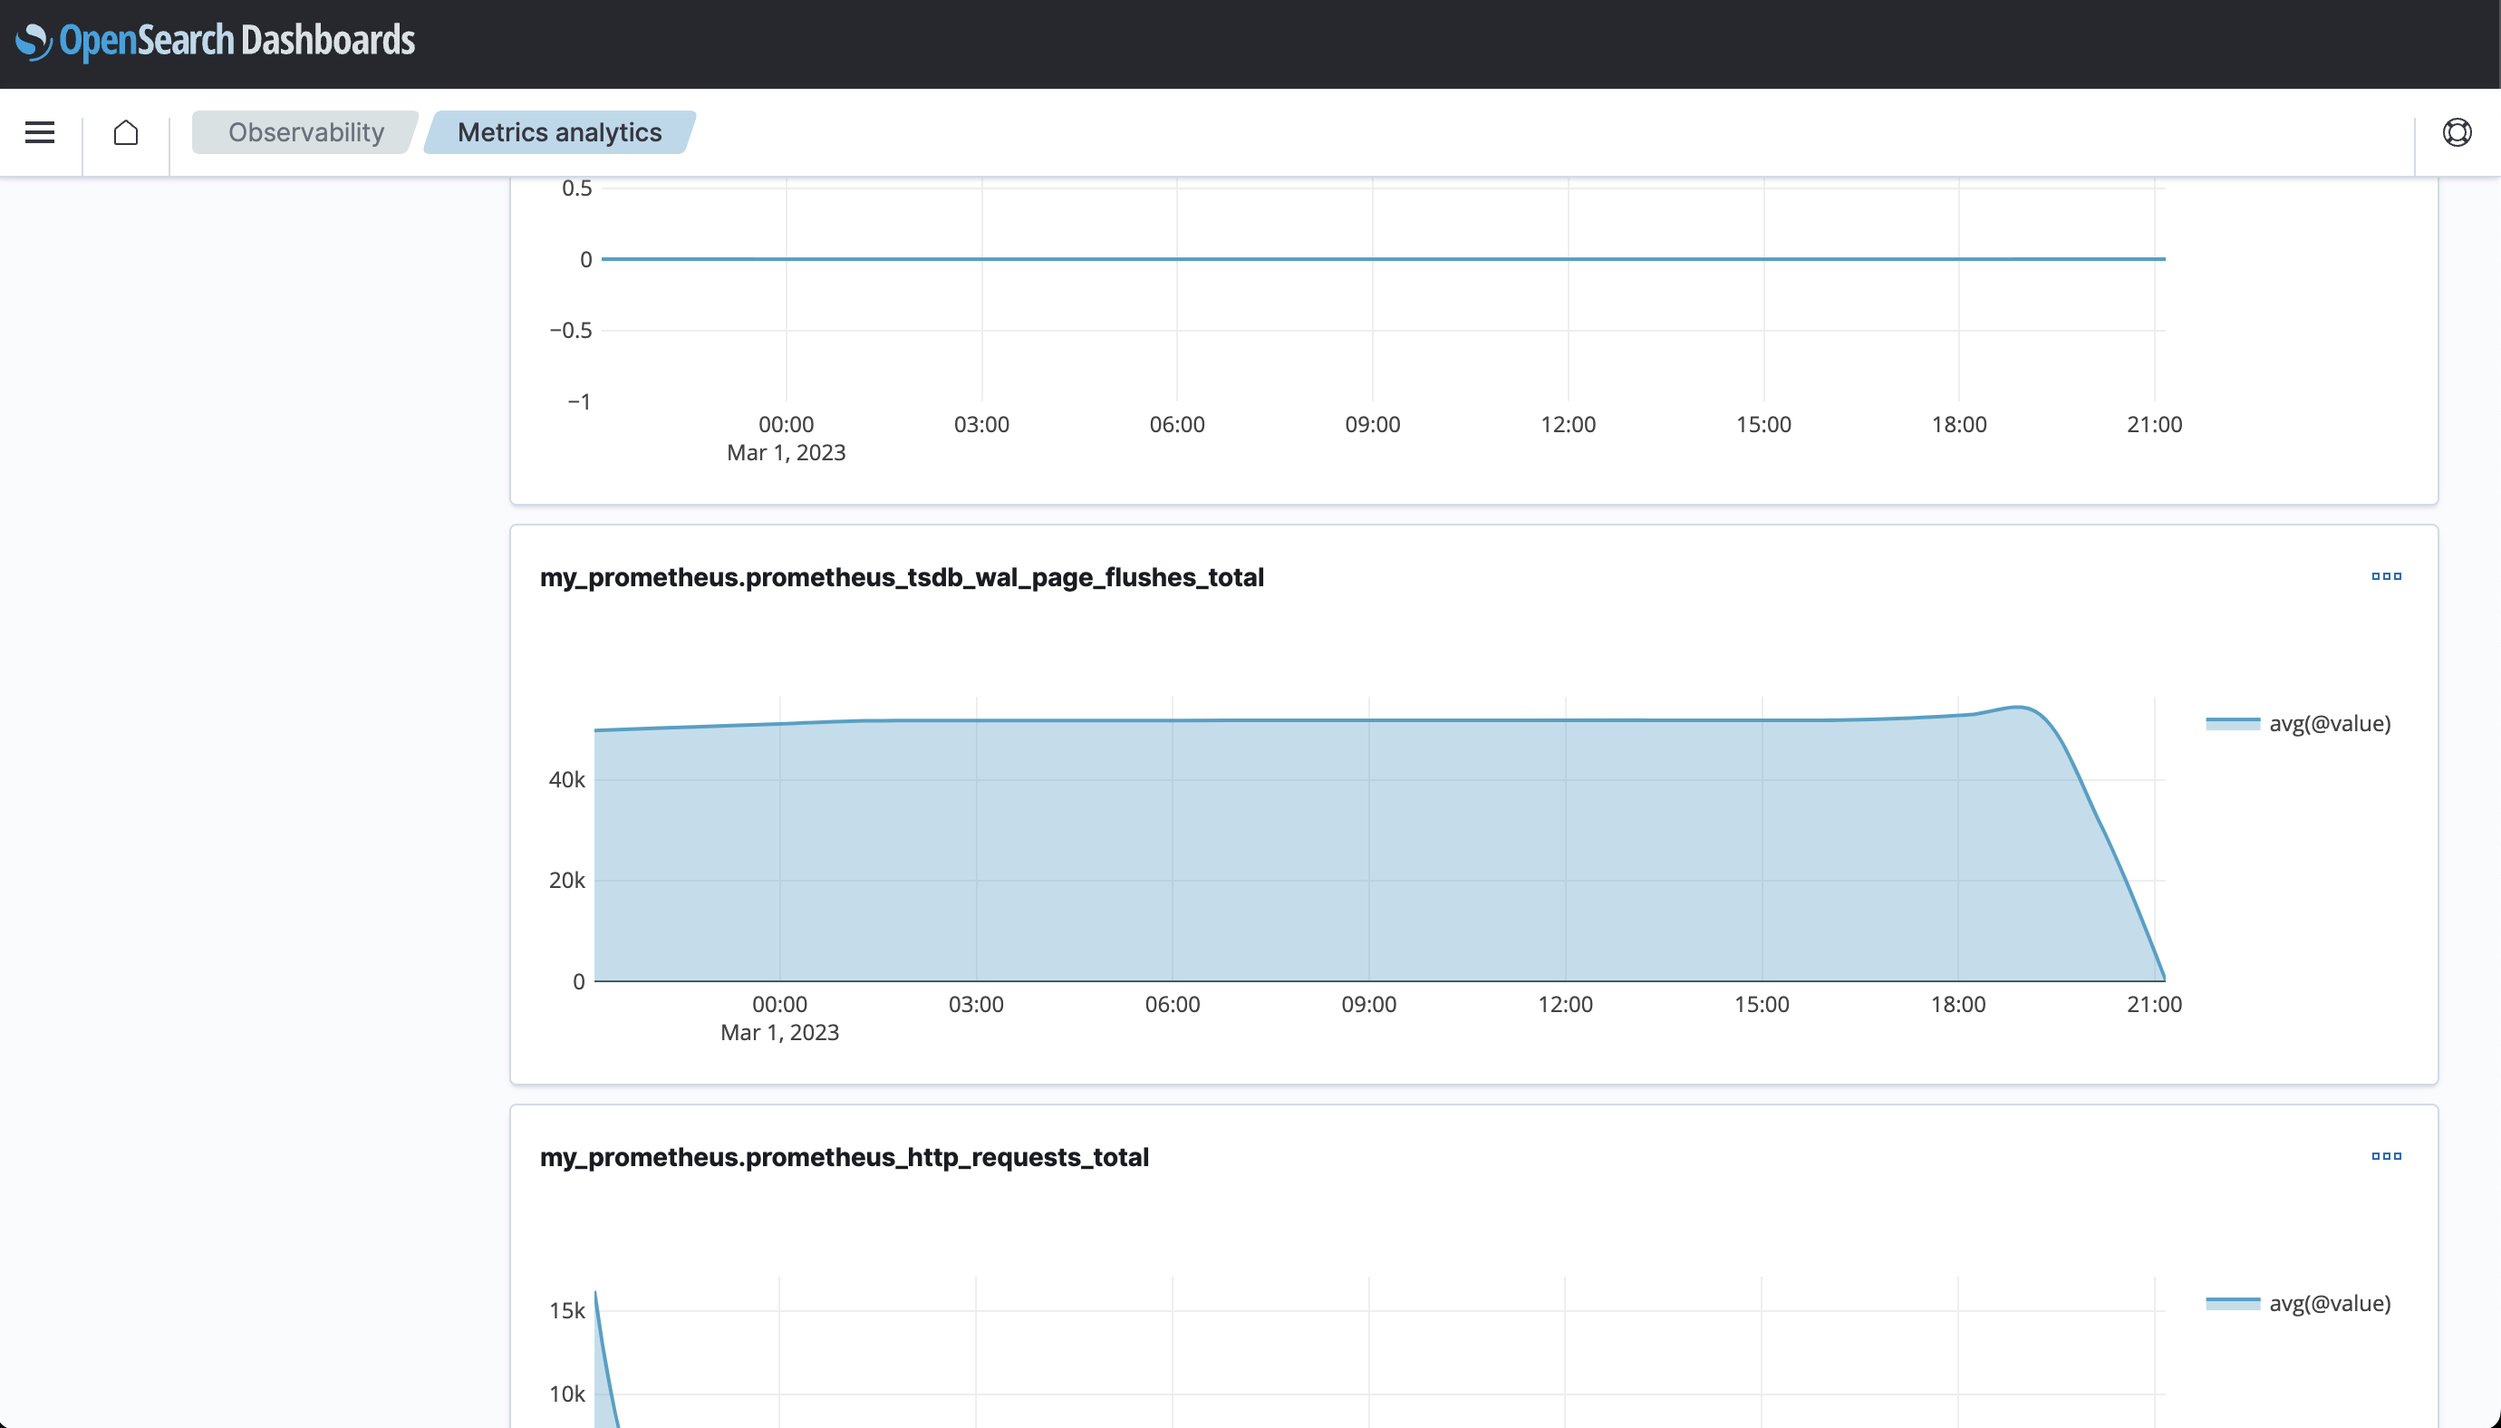
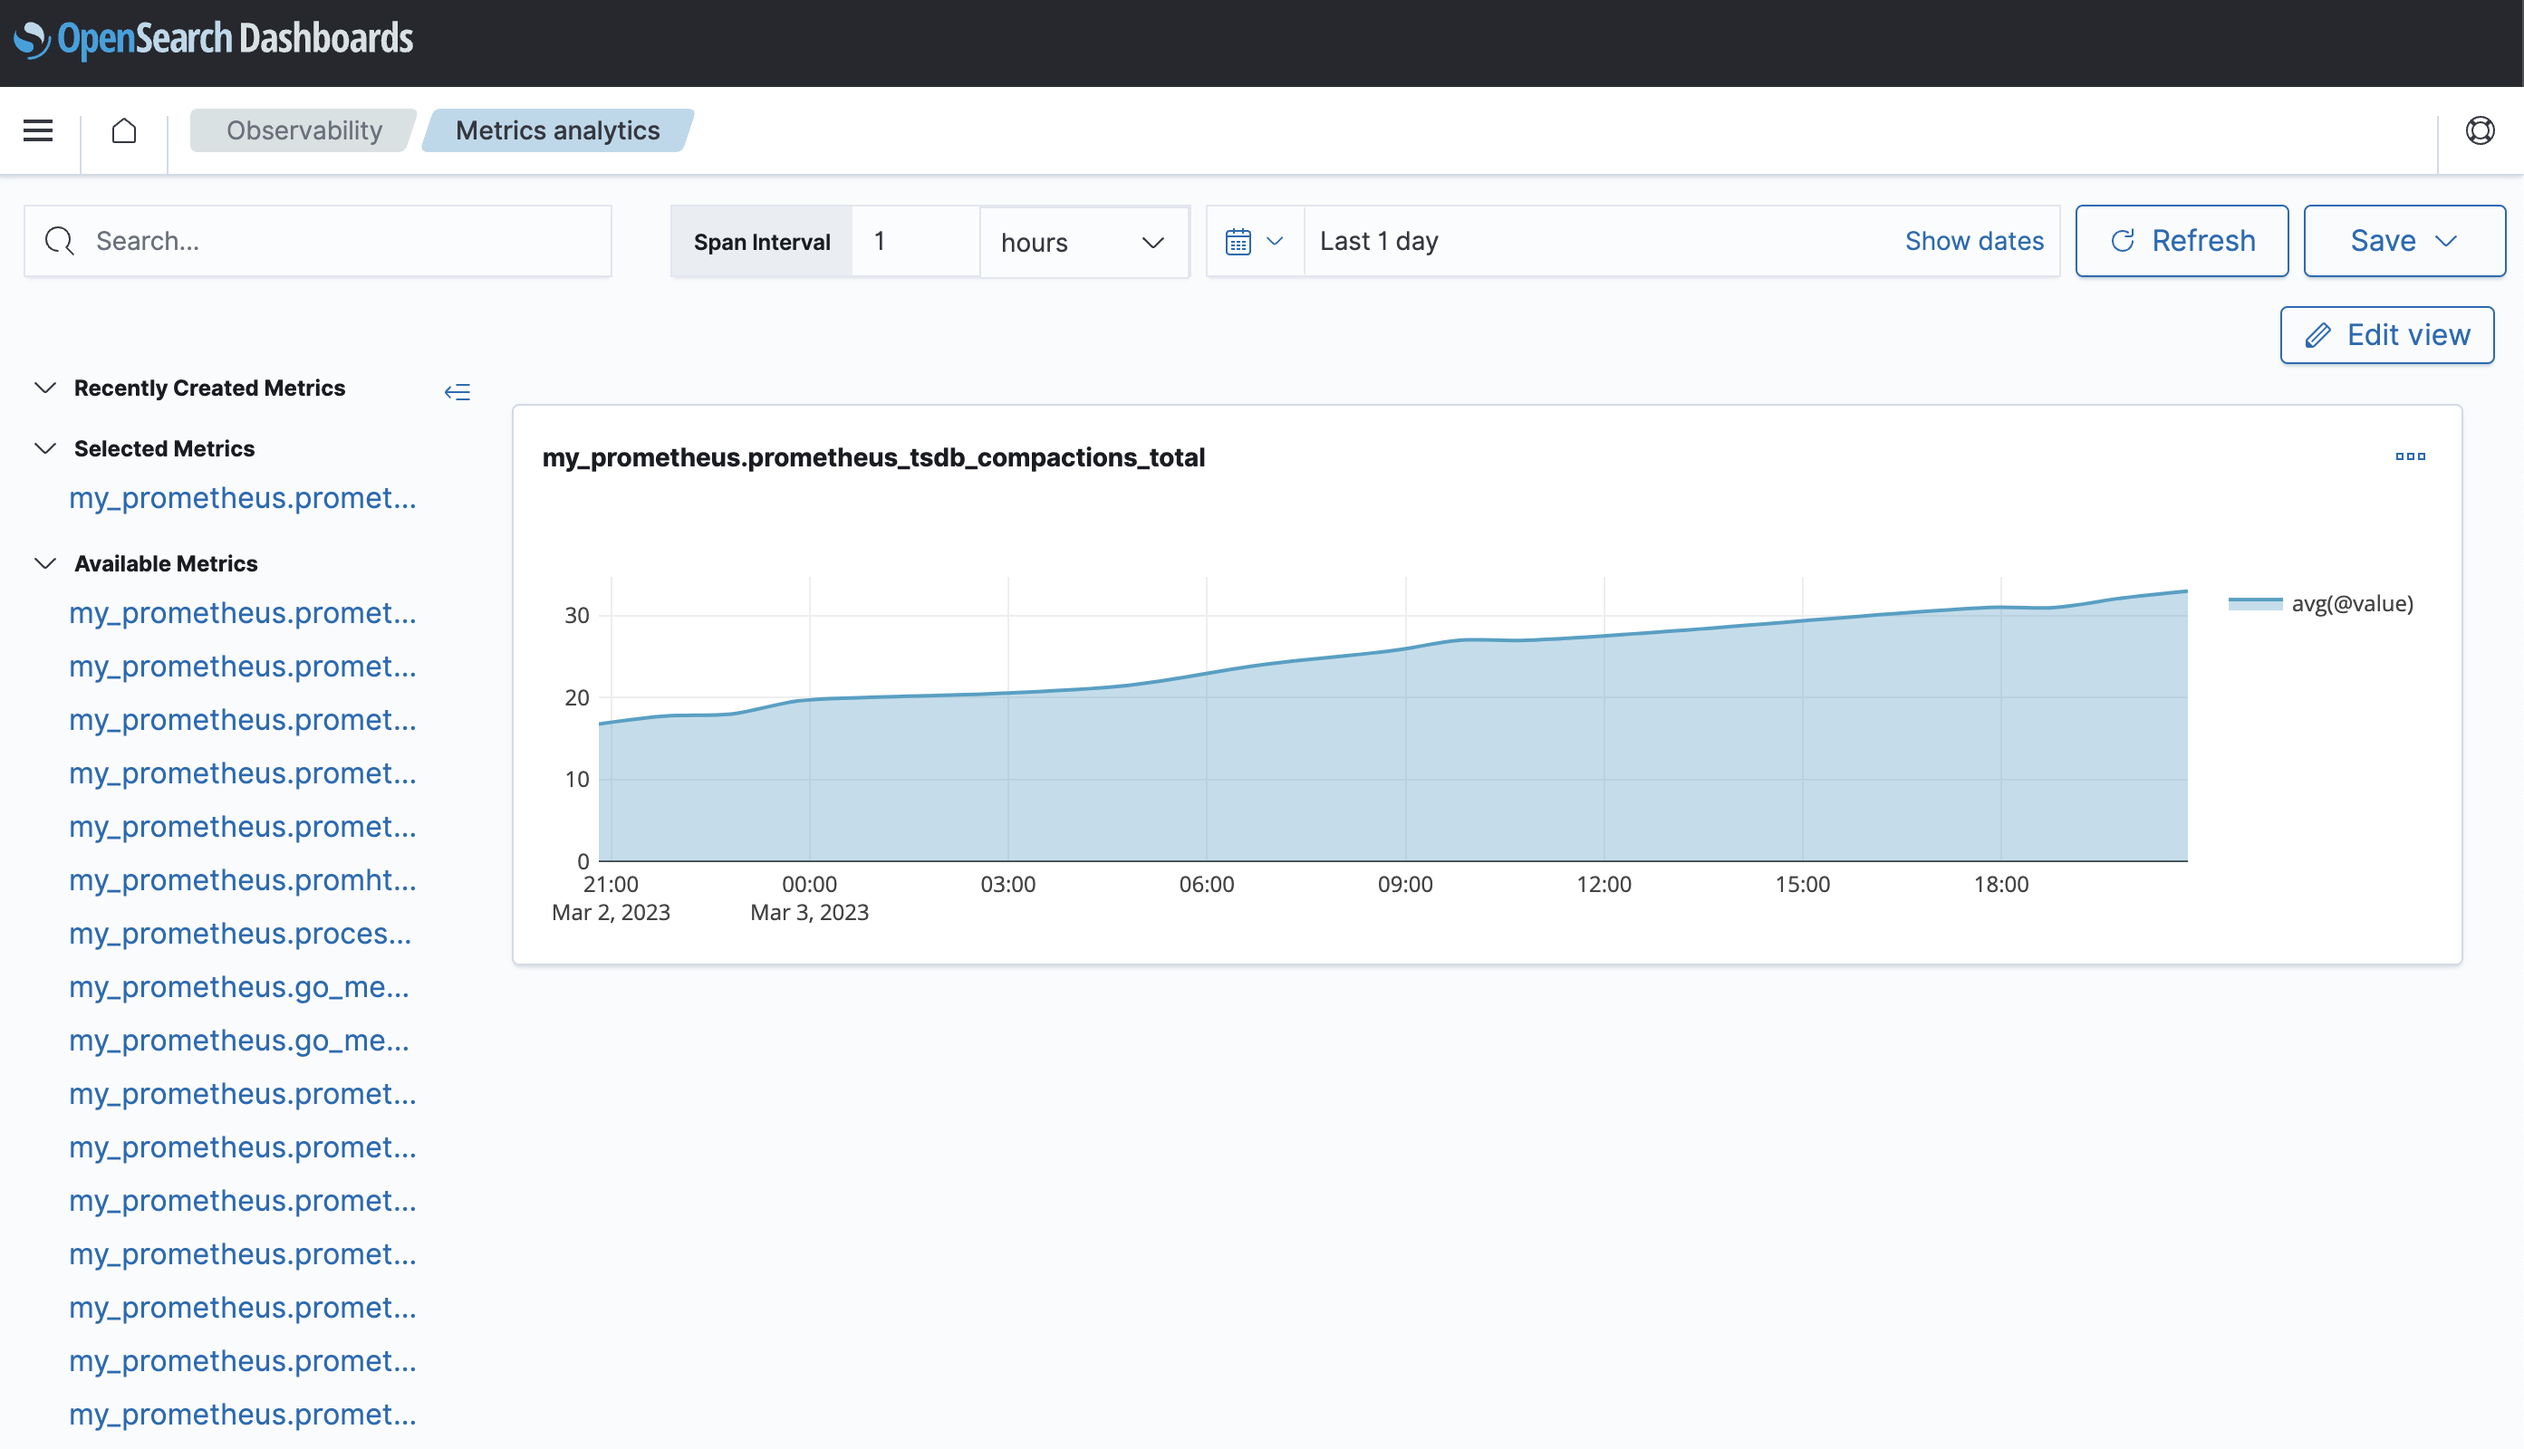
Additional changed for clarity

diff --git a/_observing-your-data/prometheusmetrics.md b/_observing-your-data/prometheusmetrics.md
@@ -12,7 +12,7 @@ Introduced 2.4
 
 Starting with OpenSearch 2.4, you can ingest and visualize metrics data from the open-source [Prometheus](https://prometheus.io/) monitoring solution and from log data aggregated within OpenSearch, allowing you to analyze and correlate data across logs, traces, and metrics. Previously, you could ingest and visualize only logs and traces from your monitored environments. With this feature, you can observe your digital assets with more granularity, gain deeper insight into the health of your infrastructure, and better inform your root cause analysis.
 
-The following image shows the process of pulling in metrics and viewing them in **Observability**.
+The following image shows the process of pulling in metrics ingested through Prometheus and visualizing them in a dashboard.
 
 ![Prometheus and Metrics]({{site.url}}{{site.baseurl}}/images/metrics/metricsgif.gif)
 
@@ -84,7 +84,9 @@ POST /_nodes/reload_secure_settings
 ```
 {% include copy-curl.html %}
 
-Metrics collected from Prometheus are displayed in the **Observability** application under **Metrics analytics**. For further information, see the [Prometheus Connector](https://github.com/opensearch-project/sql/blob/main/docs/user/ppl/admin/prometheus_connector.rst) GitHub page.
+Metrics collected from Prometheus are displayed in the **Observability** application under **Metrics analytics** as seen in the following image. For further information, see the [Prometheus Connector](https://github.com/opensearch-project/sql/blob/main/docs/user/ppl/admin/prometheus_connector.rst) GitHub page.
+
+![Metrics UI example 1]({{site.url}}{{site.baseurl}}/images/metrics/metrics1.png)
 
 ## Prometheus PPL queries
 
@@ -96,30 +98,28 @@ source = my_prometheus.prometheus_http_requests_total | stats avg(@value) by spa
 
 ## Creating visualizations based on metrics
 
-You can create visualizations based on metrics collected by your OpenSearch cluster in the in the new **Metrics Analytics** section of the **Observability** application in OpenSearch Dashboards. To create a visualization, choose the metrics you would like to include from the list under **Available Metrics**. These visualizations will be displayed in the **Metrics Analytics** section of **Observability** as seen in the following image. 
+You can create visualizations based on metrics collected by your OpenSearch cluster in the new **Metrics analytics** section of the **Observability** application in OpenSearch Dashboards. To create a visualization, choose the metrics you would like to include from the list under **Available Metrics**. These visualizations will be displayed in the **Metrics analytics** section of **Observability** as seen in the following image. 
 
 ![Metrics UI example 2]({{site.url}}{{site.baseurl}}/images/metrics/metrics2.png)
 
 After creating a visualization, you can save it with the following steps:
 
-1. Select **Save**.
-2. You are then prompted for a **Custom operational dashboards/application**.
-3. Choose one of the provided options.
-4. Enter name values under the **Metric Name** fields.
+1. From the **Metrics analytics** page, select **Save**.
+2. When prompted for a **Custom operational dashboards/application**, choose one of the available options.
+3. Optionally, you can edit the pre-defined name values under the **Metric Name** fields to fit your needs.
+4. Select **Save**.
+
+Additionally, you can create a custom visualization generated with a PPL query under [Event analytics]({{site.url}}{{site.baseurl}}/observing-your-data/event-analytics/) to fit your needs.
+
+You can save a visualization created with a PPL query with the following steps:
+
+1. After running a PPL query from the **Events analytics** page, you will be taken to the **Explorer page**.
+1. From the **Explorer page**, select **Save**.
+2. When prompted for a **Custom operational dashboards/application**, choose one of the available options.
+3. Optionally, you can edit the pre-defined name values under the **Metric Name** fields to fit your needs.
+4. Optionally, you can choose to save the visualization as a metric.
 5. Select **Save**.
 
-Additionally, you can create a custom visualization generated with a PPL query under [Event analytics]({{site.url}}{{site.baseurl}}/observing-your-data/event-analytics/) to fit your needs. The following image is an example of a visualization based on a PPL query.
+Note: Only queries that include a time series visualization and stats/span can be saved as a metric, as seen in the following image.
 
 ![Metrics UI example 3]({{site.url}}{{site.baseurl}}/images/metrics/metrics3.png)
-
-You can save the visualization with the following steps:
-
-1. Select **Save**.
-2. You are then prompted for a **Custom operational dashboards/application**.
-3. Choose one of the provided options.
-4. Enter name values under the **Metric Name** fields.
-5. Optionally, you can choose to save the visualization as a metric.
-6. Select **Save**.
-
-Only queries that include a time series visualization and stats/span can be saved as a metric.
-{: .note }
